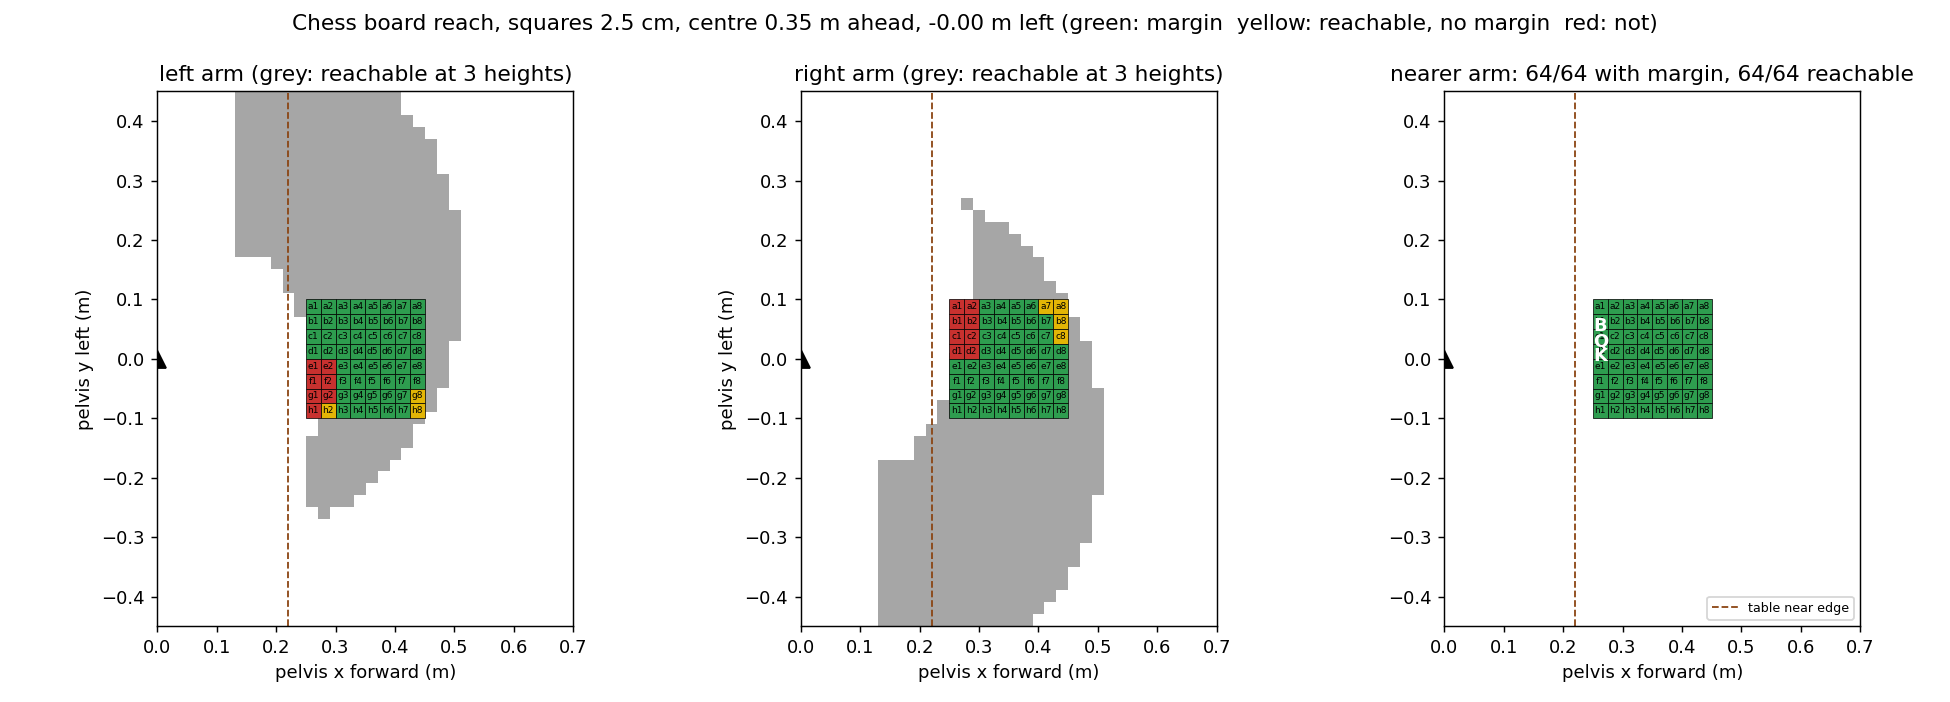
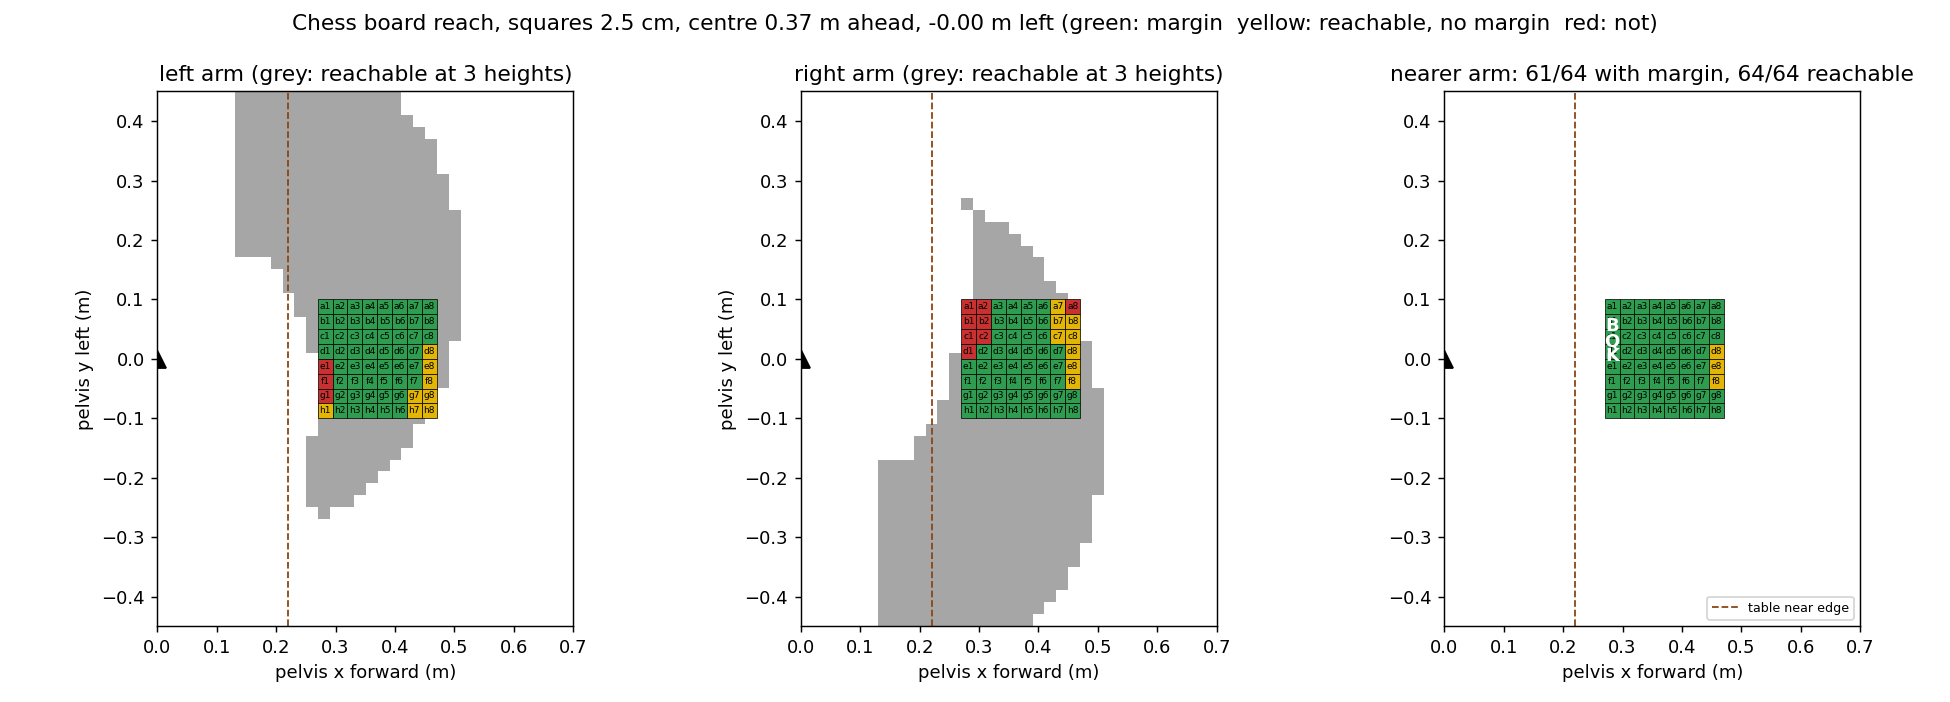
Chess board 2 cm further from the robot (centre 0.37 m ahead of the pelvis)
Claude-Session: https://claude.ai/code/session_01TX3rRWmVTSu7aQwB6qRSrc

diff --git a/sim_patches/files/tasks/common_scene/base_scene_stack_rgyblock_real.py b/sim_patches/files/tasks/common_scene/base_scene_stack_rgyblock_real.py
@@ -118,7 +118,8 @@ SQUARE_SIZE = float(os.environ.get("G1_SQUARE_SIZE", "0.025"))  # 2.5 cm default
 # piece size follows the square size (king base 4.4 cm x scale: 2.7 cm at 0.6, 2.4 at 0.55, 2.2 at 0.5)
 _PIECE_SCALE_DEFAULT = {0.035: 0.6, 0.030: 0.55, 0.025: 0.5}.get(round(SQUARE_SIZE, 3), 0.6 * SQUARE_SIZE / 0.035)
 PIECE_SCALE = float(os.environ.get("G1_PIECE_SCALE", str(_PIECE_SCALE_DEFAULT)))
-_BOARD_X_DEFAULT = {0.035: 0.38, 0.030: 0.36, 0.025: 0.35}.get(round(SQUARE_SIZE, 3), max(0.38, 0.24 + 4 * SQUARE_SIZE))
+# 2.5 cm: 0.37 = 0.35 + 2 cm further from the robot (user, 2026-11-22; d8/e8/f8 then reachable but < 4 cm margin)
+_BOARD_X_DEFAULT = {0.035: 0.38, 0.030: 0.36, 0.025: 0.37}.get(round(SQUARE_SIZE, 3), max(0.38, 0.24 + 4 * SQUARE_SIZE))
 BOARD_X_PELVIS = float(os.environ.get("G1_BOARD_X", str(_BOARD_X_DEFAULT)))   # m in front of the pelvis
 BOARD_Y_PELVIS = float(os.environ.get("G1_BOARD_Y", "0.0"))                   # m to the robot's left
 ROBOT_XY = (-4.2, -3.7)                               # robot root, facing -y (robot left = world +x)

diff --git a/README.md b/README.md
@@ -71,7 +71,7 @@ Live sim:
    ```bash
    cd ~/VLA/unitree_sim_isaaclab && G1_REAL_HEAD_DEPTH=1 G1_REAL_HEAD_DEPTH_STRIDE=2 python sim_main.py --device cpu \
      --enable_cameras --task Isaac-Chess-Pieces-G129-Dex1-Joint-Factory --enable_dex1_dds --robot_type g129
-   # chess board: 2.5 cm squares by default (all 64 reachable with margin, chessreach/chess_reach_25mm.png)
+   # chess board: 2.5 cm squares, centre 0.37 m ahead (64/64 reachable, 61 with +-4 cm margin; chessreach/chess_reach_25mm.png)
    ```
 2. Terminal 2, after the sim shows the robot:
    ```bash
